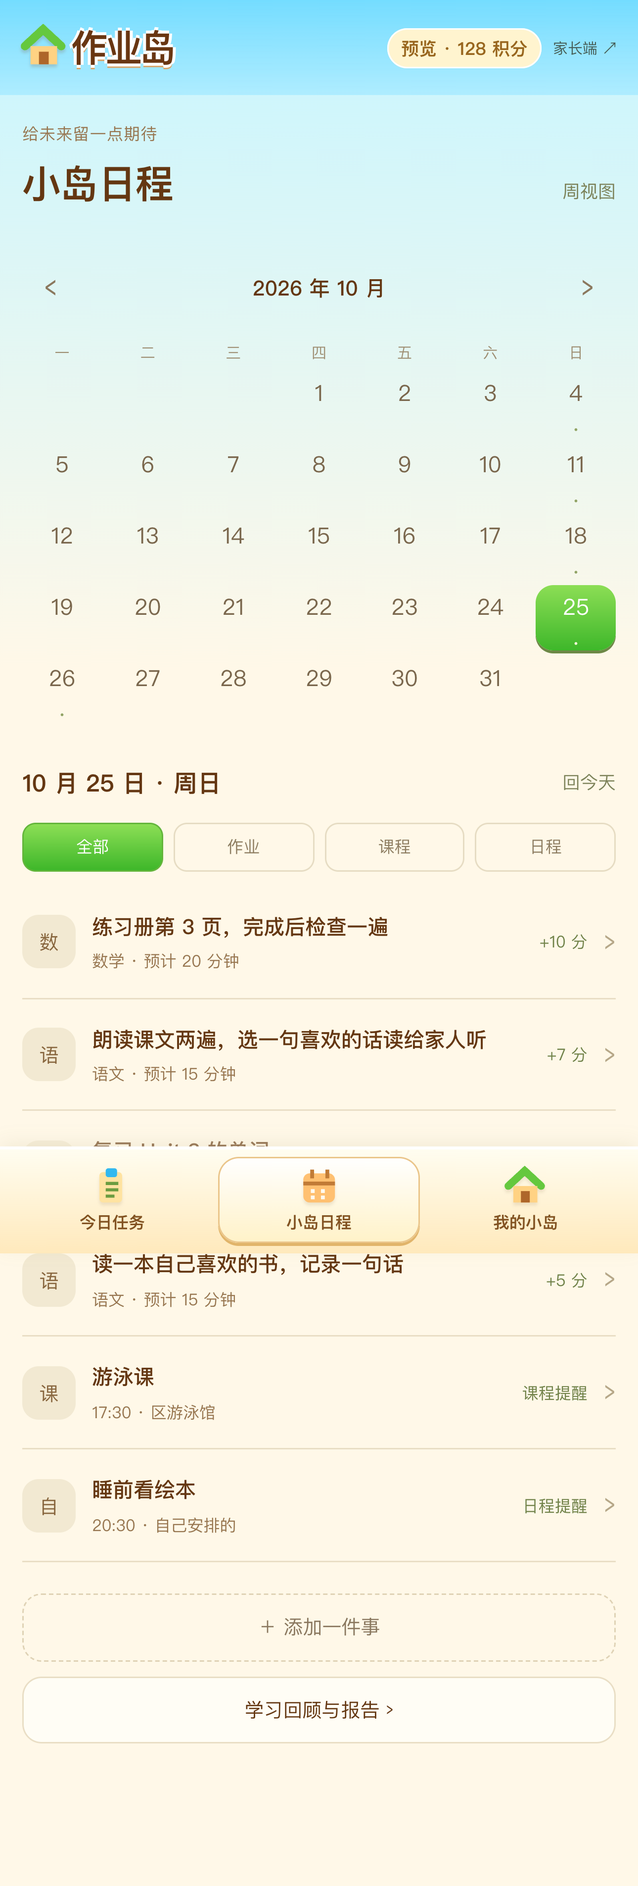
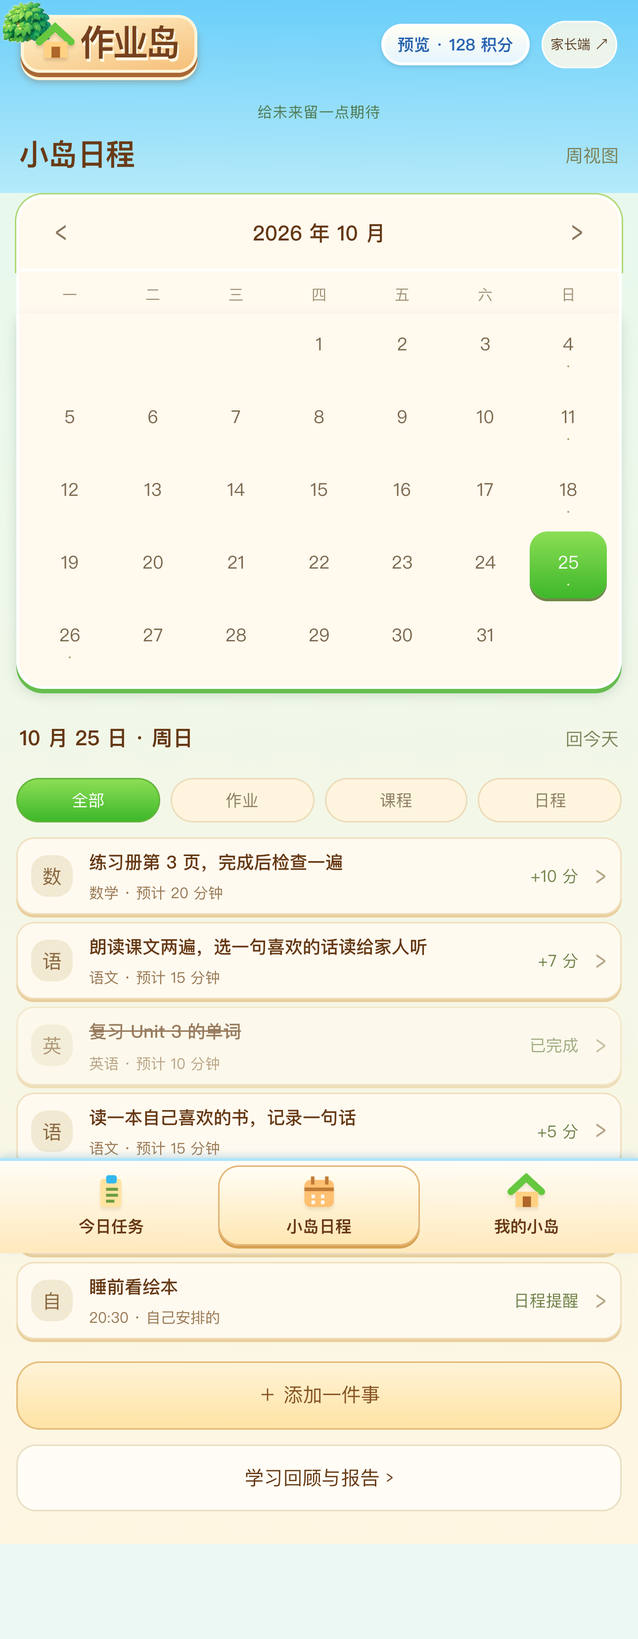
Advance child UI visual fidelity with independent HD scenes

diff --git a/dist/upgrade.js b/dist/upgrade.js
@@ -60,9 +60,11 @@ function parentToday(d,head,open,done){
  return `${head}<div class="up-parent-actions">${button('＋ 发布作业','publish','up-primary')}${button('＋ 添加课程或日程','add-class-event','up-secondary')}</div>${button('📷 截图／文字录入作业','ocr','up-link up-import-link')}${pending.length||toFulfill.length?`<details class="up-inbox" open><summary>需要你看一看 · ${pending.length+toFulfill.length} 项</summary>${requests}</details>`:''}${section('今日安排',button('查看计划 ›','plan','up-link'))}<div class="up-today-list">${open.map(row).join('')||'<p class="up-empty-line">今天暂时没有待办。</p>'}${done.length?`<details class="up-done"><summary>已完成 ${done.length} 件</summary>${done.map(row).join('')}</details>`:''}</div>${recentReview(d)}`;
 }
 function hdIcon(kind){const paths={clipboard:'<rect x="7" y="5" width="18" height="24" rx="3" fill="#ffe3a1"/><rect x="12" y="2" width="9" height="7" rx="2" fill="#32b8ef"/><path d="M12 14h10M12 19h10M12 24h7" stroke="#6b9c40" stroke-width="2.5"/>',calendar:'<rect x="4" y="6" width="25" height="23" rx="5" fill="#ffc071"/><path d="M4 14h25M11 3v7M23 3v7" stroke="#c17b36" stroke-width="3"/><path d="M10 20h3m5 0h3m-11 5h3m5 0h3" stroke="#fffaf0" stroke-width="3"/>',house:'<path d="M3 16L16 4l13 12" fill="none" stroke="#65c83e" stroke-width="6" stroke-linecap="round"/><path d="M7 16v13h19V16" fill="#ffd283"/><path d="M13 29v-9h7v9" fill="#ae662a"/>',bag:'<rect x="6" y="10" width="21" height="21" rx="6" fill="#159fe7"/><path d="M11 11V8c0-7 12-7 12 0v3" stroke="#ffca42" stroke-width="3" fill="none"/><rect x="10" y="20" width="13" height="8" rx="2" fill="#ffc333"/>'};return `<svg viewBox="0 0 34 34" aria-hidden="true">${paths[kind]||paths.clipboard}</svg>`;}
+function hdArt(name,cls=''){return `<img class="${cls}" src="assets/hd/ui/${name}.png" alt="" aria-hidden="true" loading="lazy" decoding="async">`;}
+function hdSubject(subject){const names={语文:'subject-chinese',数学:'subject-math',英语:'subject-english',音乐:'subject-music',科学:'subject-science',美术:'subject-art',体育:'subject-sports'};return names[subject]?hdArt(names[subject],'hd-subject-art'):null;}
 function hdToday(d){
  const all=dayItems(d,todayStr()),tasks=all.filter(x=>x.kind==='homework'),complete=tasks.filter(x=>x.done).length,next=IslandReminders.next(all,todayStr()),b=companion(d);
- const hw=`<section class="hd-paper hd-homework" aria-label="今日作业"><div class="hd-card-head">${hdIcon('clipboard')}<h1>今日作业 <small>${complete}/${tasks.length}</small></h1>${button('查看全部 ›','all-tasks','hd-pill')}</div>${tasks.length?tasks.filter(x=>!x.done).concat(tasks.filter(x=>x.done)).slice(0,3).map(it=>`<div class="hd-task"><button class="hd-task-main" data-up="task" data-id="${attr(it.id)}"><span class="hd-subject" data-subject="${attr(it.hw.subject)}">${e((it.hw.subject||'作业').slice(0,1))}</span><span><b>${e(it.hw.subject||'作业')}</b><small>${e(it.hw.content)}</small></span></button>${it.hw.pendingApproval?'<span class="hd-wait">待家长确认</span>':button(it.done?'✓':'',it.done?'undo':'complete','hd-check',`data-id="${attr(it.id)}" aria-label="${it.done?'撤销完成':'完成'}${attr(it.hw.content)}" aria-pressed="${it.done}"`)}</div>`).join(''):'<p class="hd-empty">今天暂无作业，给自己留一点自由时间吧。</p>'}${tasks.length&&complete===tasks.length?'<p class="hd-encourage">今天的作业都完成啦，辛苦了！</p>':''}<div class="hd-quick">${button('☀ 记心情 ›','journal-edit','hd-pill')}${button('陪伴伙伴 ›','mate-picker','hd-pill')}<span>${e(b.name)}</span></div></section>`;
+ const hw=`<section class="hd-paper hd-homework" aria-label="今日作业"><div class="hd-card-head">${hdArt('clipboard','hd-card-icon')}<h1>今日作业 <small>${complete}/${tasks.length}</small></h1>${button('查看全部 ›','all-tasks','hd-pill')}</div>${tasks.length?tasks.filter(x=>!x.done).concat(tasks.filter(x=>x.done)).slice(0,3).map(it=>`<div class="hd-task"><button class="hd-task-main" data-up="task" data-id="${attr(it.id)}"><span class="hd-subject" data-subject="${attr(it.hw.subject)}">${hdSubject(it.hw.subject)||e((it.hw.subject||'作业').slice(0,1))}</span><span><b>${e(it.hw.subject||'作业')}</b><small>${e(it.hw.content)}</small></span></button>${it.hw.pendingApproval?'<span class="hd-wait">待家长确认</span>':button(it.done?'✓':'',it.done?'undo':'complete','hd-check',`data-id="${attr(it.id)}" aria-label="${it.done?'撤销完成':'完成'}${attr(it.hw.content)}" aria-pressed="${it.done}"`)}</div>`).join(''):'<p class="hd-empty">今天暂无作业，给自己留一点自由时间吧。</p>'}${tasks.length&&complete===tasks.length?'<p class="hd-encourage">今天的作业都完成啦，辛苦了！</p>':''}<div class="hd-quick">${button('☀ 记心情 ›','journal-edit','hd-pill')}${button('🐾 陪伴伙伴 ›','mate-picker','hd-pill')}<span>${e(b.name)}</span></div></section>`;
  const course=next?(()=>{const v=IslandReminders.details(next);return `<section class="hd-course hd-paper"><button class="hd-course-main" data-up="${next.kind}" data-id="${attr(next.id)}">${hdIcon('bag')}<span><b>${e(v.start||'时间待定')}　${e(v.name)}</b><small>${e(IslandReminders.status(next,todayStr()))} · ${v.bring.length?'需要带：'+e(v.bring.join('、')):'无需携带额外物品'}</small></span><span>›</span></button></section>`;})():`<section class="hd-paper hd-course"><div class="hd-course-main">${hdIcon('bag')}<span><b>今天暂无后续课程</b><small>去小岛日程看看之后的安排吧</small></span>${button('查看 ›','plan','hd-pill')}</div></section>`;
  const v=next&&IslandReminders.details(next),mins=new Date().getHours()*60+new Date().getMinutes(),departure=v&&timeToMin(v.departure),courseFirst=next&&(IslandReminders.status(next,todayStr())==='进行中'||departure!=null&&mins>=departure);
  return `<div class="hd-home"><section class="hd-map" aria-label="小岛地图"><img class="hd-map-art" src="assets/hd/island.webp" alt="蓝天海面上的小岛，花园、小屋、森林书屋与码头" fetchpriority="high"><div class="hd-map-date">${dateLabel(todayStr())}</div><button class="hd-sign hd-garden" data-up="explore" data-project="garden">花园 ›</button><button class="hd-sign hd-library" data-up="explore" data-project="library">森林书屋 ›</button><button class="hd-sign hd-house" data-up="room">我的小屋 ›</button><button class="hd-sign hd-dock" data-up="explore" data-project="dock">码头 ›</button><img class="hd-mascot" src="assets/hd/raccoon.webp" alt="戴探险帽的小狸向你挥手"><p class="hd-speech">${e(d.kidName||'小岛主')}，今天也一起加油！</p></section><div class="hd-home-cards">${courseFirst?course+hw:hw+course}</div></div>`;
@@ -83,12 +85,12 @@ function recurring(d){
  return `<div class="up-eyebrow">固定节奏，轻松安排</div><div class="up-heading"><h1>周期作业</h1><span class="up-balance">${tasks.filter(x=>x.active!==false).length} / ${tasks.length} 启用</span></div><p class="up-muted">在发布作业时选择周期，就会在指定日期自动生成。</p>${button('＋ 发布周期作业','publish','up-primary')}${tasks.length?`<div class="up-recurring-list">${tasks.map(t=>`<article class="up-recurring-card ${t.active===false?'is-paused':''}" data-recur-id="${attr(t.id)}"><div class="up-heading"><h2>${e(t.subject||'作业')}</h2><span class="up-balance">+${Number(t.points)||0} 分</span></div><p>${e(t.content||'')}</p><small>${e(cycleText(t))}${t.active===false?' · 已暂停':''}</small><div class="up-recurring-actions">${button('编辑','recur-edit','up-chip',`data-id="${attr(t.id)}"`)}${button(t.active===false?'恢复':'暂停','recur-toggle','up-chip',`data-id="${attr(t.id)}"`)}${button('删除','recur-delete','up-chip',`data-id="${attr(t.id)}"`)}</div></article>`).join('')}</div>`:'<div class="up-empty"><h2>还没有周期作业</h2><p>发布作业时勾选周期选项，就能按天、周或月自动安排。</p></div>'}`;
 }
 function islandTabs(active){return `<div class="up-tabs" aria-label="小岛空间">${[['island','建设'],['mates','伙伴'],['room','房间']].map(([id,n])=>button(n,id,'up-tab',`aria-pressed="${active===id}"`)).join('')}</div>`;}
-function island(d){const p=projects.find(x=>x.id===ui.project)||nextProject(d)||projects[0],built=d.demoGrowth.buildings.includes(p.id),next=nextProject(d),eligible=next?.id===p.id;return `<div class="up-eyebrow">你的努力，正在变成一座小岛</div><div class="up-heading"><h1>我的小岛</h1><span class="up-balance">✦ ${d.points} 积分</span></div>${islandTabs('island')}<div class="up-island-scene">${scene(d)}${sceneBuddy(d,'island')}<button class="up-hotspot house" data-up="room" aria-label="进入我的小屋">我的小屋 ›</button><button class="up-hotspot garden" data-up="project" data-project="garden">小岛花园 ${d.demoGrowth.buildings.includes('garden')?'✓':''}</button><button class="up-hotspot dock" data-up="project" data-project="dock">海边码头 ${d.demoGrowth.buildings.includes('dock')?'✓':''}</button><button class="up-hotspot library" data-up="project" data-project="library">森林书屋 ${d.demoGrowth.buildings.includes('library')?'✓':''}</button></div><p class="up-scene-caption">先种一片花，再沿着小路，慢慢建设自己的家园。</p><div class="up-project"><div class="up-heading"><h2>${e(p.name)}</h2><small>${built?'已经建好':p.cost+' 建设力'}</small></div><p>${e(p.desc)}</p>${built?'<div class="up-built">✓ 已成为小岛的一部分</div>':`<div class="up-meter-label"><span>现有建设力</span><span>${d.demoGrowth.construction} / ${p.cost}</span></div><div class="up-track"><i style="width:${Math.min(100,d.demoGrowth.construction/p.cost*100)}%"></i></div>${!eligible?button('先把'+(next?.name||'前一处建设')+'建好','next-project','up-secondary'):!DemoCore.homeworkProgress(d).complete?button('先完成今日作业，再建设','continue-homework','up-primary'):d.demoGrowth.construction>=p.cost?button('开始建设 '+p.name,'build','up-primary',`data-project="${p.id}"`):button('去完成作业 · 再积累 '+(p.cost-d.demoGrowth.construction)+' 建设力','today','up-primary')}`}</div><p class="up-note">每份作业首次完成增加 10 建设力。建设不会扣除积分或房间摆件。</p><div class="up-settings-links">${button('成就徽章','achieve','up-secondary')}${button('和家人的奖励约定','shop','up-secondary')}${button('学习回顾','report','up-secondary')}</div>`;}
+function island(d){const p=projects.find(x=>x.id===ui.project)||nextProject(d)||projects[0],built=d.demoGrowth.buildings.includes(p.id),next=nextProject(d),eligible=next?.id===p.id;return `<div class="up-eyebrow">你的努力，正在变成一座小岛</div><div class="up-heading"><h1>我的小岛</h1><span class="up-balance">✦ ${d.points} 积分</span></div>${islandTabs('island')}<div class="up-island-scene">${scene(d)}${sceneBuddy(d,'island')}<button class="up-hotspot house" data-up="room" aria-label="进入我的小屋">我的小屋 ›</button><button class="up-hotspot garden" data-up="project" data-project="garden">小岛花园 ${d.demoGrowth.buildings.includes('garden')?'✓':''}</button><button class="up-hotspot dock" data-up="project" data-project="dock">海边码头 ${d.demoGrowth.buildings.includes('dock')?'✓':''}</button><button class="up-hotspot library" data-up="project" data-project="library">森林书屋 ${d.demoGrowth.buildings.includes('library')?'✓':''}</button></div><p class="up-scene-caption">先种一片花，再沿着小路，慢慢建设自己的家园。</p><figure class="hd-area-preview"><img src="assets/hd/${p.id}.jpg" alt="${e(p.name)}高清场景" loading="lazy" decoding="async"><figcaption>${e(p.name)} · 场景预览</figcaption></figure><div class="up-project"><div class="up-heading"><h2>${e(p.name)}</h2><small>${built?'已经建好':p.cost+' 建设力'}</small></div><p>${e(p.desc)}</p>${built?'<div class="up-built">✓ 已成为小岛的一部分</div>':`<div class="up-meter-label"><span>现有建设力</span><span>${d.demoGrowth.construction} / ${p.cost}</span></div><div class="up-track"><i style="width:${Math.min(100,d.demoGrowth.construction/p.cost*100)}%"></i></div>${!eligible?button('先把'+(next?.name||'前一处建设')+'建好','next-project','up-secondary'):!DemoCore.homeworkProgress(d).complete?button('先完成今日作业，再建设','continue-homework','up-primary'):d.demoGrowth.construction>=p.cost?button('开始建设 '+p.name,'build','up-primary',`data-project="${p.id}"`):button('去完成作业 · 再积累 '+(p.cost-d.demoGrowth.construction)+' 建设力','today','up-primary')}`}</div><p class="up-note">每份作业首次完成增加 10 建设力。建设不会扣除积分或房间摆件。</p><div class="up-settings-links">${button('成就徽章','achieve','up-secondary')}${button('和家人的奖励约定','shop','up-secondary')}${button('学习回顾','report','up-secondary')}</div>`;}
 function mateCards(d,picker=false){const b=companion(d),owned=d.rewardsUnlocked||[];return `<div class="up-mate-grid">${(d.rewardItems||[]).filter(x=>x.type==='mate'&&(x.active!==false||owned.includes(x.emoji))).map(m=>{const c=cast[m.emoji],has=owned.includes(m.emoji),active=b.emoji===m.emoji;return `<div class="up-mate-card">${c?`<img src="${c[3]}" alt="${e(m.name)}" loading="lazy">`:`<span class="up-mate-fallback" role="img" aria-label="${e(m.name)}">${e(m.name.slice(0,1))}</span>`}<h2>${e(m.name)}</h2><small>${has?'已经是岛上的伙伴':m.points+' 积分解锁'}</small>${button(active?'正在陪伴':has?'请来陪伴':'解锁伙伴',has?'choose-mate':'redeem','up-secondary',`data-id="${attr(m.id)}" ${picker?'data-picker="true"':''} ${active?'disabled':''}`)}</div>`;}).join('')}</div>`;}
 function mates(d){const b=companion(d);return `<div class="up-eyebrow">写作业的时候，也有人陪伴</div><div class="up-heading"><h1>小岛伙伴</h1><span class="up-balance">${d.points} 积分</span></div>${islandTabs('mates')}<div class="up-companion-intro">${buddy(d)}<div><h2>${e(b.name)}正在陪你</h2><p>${e(b.line)}</p>${button('和我去写作业','continue-homework','up-link')}</div></div>${mateCards(d)}<p class="up-note">10 位小岛伙伴都有自己的形象。用作业积分解锁，在这里或作业页选择今天的陪写伙伴。</p>`;}
 function materialArt(id){const art={wood:'nature-wood-piece',branch:'nature-tree-branch',stone:'magic-lucky-stone',leaf:'plant-four-leaf-clover',flower:'flower-cosmos',shell:'shell-scallop'};const m=MATERIALS.find(x=>x.id===id);return art[id]?`<img class="up-object-image" src="assets/hd/${art[id]}.png" alt="${e(m?.name||id)}" loading="lazy">`:`<span class="up-object-emoji">${e(m?.emoji||'★')}</span>`;}
 
-function room(d){const g=d.demoGrowth,unlocked=DemoCore.homeworkProgress(d).complete;if(!unlocked)ui.roomEdit=false;const zone=ui.roomZone||'shelf',action=ui.roomAction||'place',visible=roomSlots.filter(s=>s.zone===zone),allUsed=Object.keys(g.room).length;return `<div class="up-eyebrow">用房间摆件，布置自己的家</div><div class="up-heading"><h1>我的房间</h1>${button(unlocked?(ui.roomEdit?'完成布置':'布置房间'):'完成作业后再布置',unlocked?'room-edit':'continue-homework','up-chip')}</div>${islandTabs('room')}<div class="up-room-scene"><img class="up-room-bg" src="assets/room.png" alt="有三层展示架、书桌与窗边的温暖小屋" decoding="async" fetchpriority="high">${sceneBuddy(d,'room')}${roomSlots.map(s=>{const id=g.room[s.id],editing=ui.roomEdit&&s.zone===zone;return `<button class="up-room-slot ${id?'occupied':''} ${editing?'editing':''} ${ui.roomFrom===s.id?'moving':''}" style="--slot-x:${s.x}%;--slot-y:${s.y}%" data-up="room-slot" data-slot="${s.id}" aria-label="${s.name}，${id?(MATERIALS.find(m=>m.id===id)?.name||id):'空位'}" ${editing?'':'disabled'}>${id?materialArt(id):editing?'<span>＋</span>':''}</button>`;}).join('')}</div>${ui.roomEdit?`<div class="up-room-zones" aria-label="布置区域">${[['shelf','展示架',12],['desk','书桌',2],['window','窗边',1]].map(([id,name,total])=>button(name+' '+roomSlots.filter(s=>s.zone===id&&g.room[s.id]).length+'/'+total,'room-zone','up-filter',`data-zone="${id}" aria-pressed="${zone===id}"`)).join('')}</div><div class="up-room-tools">${[['place','摆放收藏'],['move','移动摆件'],['remove','收回摆件']].map(([id,name])=>button(name,'room-action','up-filter',`data-action="${id}" aria-pressed="${action===id}"`)).join('')}</div><p class="up-note">${action==='move'?(ui.roomFrom?'再点一个位置，移过去；已有物品时会交换位置。':'先点一件已摆好的收藏，再选新位置。'):action==='remove'?'点一下已摆放的物品，就能收回收藏。':'先选下方收藏，再点位置；替换后，原物品会自动收回。'}</p><div class="up-room-grid">${visible.map(s=>{const id=g.room[s.id];return button(`${id?materialArt(id):'<span class="up-position-plus">＋</span>'}<small>${s.zone==='shelf'?s.name.replace('展示架第 ','').replace(' 层 · ','层 · '):s.name}</small>`,'room-slot','up-room-place',`data-slot="${s.id}" aria-label="布置${s.name}，${id?(MATERIALS.find(m=>m.id===id)?.name||id):'空位'}" aria-pressed="${ui.roomFrom===s.id}"`);}).join('')}</div>${section('我的收藏')}<div class="up-inventory">${Object.entries(d.materials||{}).filter(([,n])=>n>0).map(([id,n])=>{const used=DemoCore.roomUsage(d,id);return `<button data-up="item" data-item="${attr(id)}" class="up-inventory-item" aria-pressed="${ui.selectedItem===id&&action==='place'}">${materialArt(id)}<span>${e(MATERIALS.find(m=>m.id===id)?.name||id)}</span><small>拥有 ${n} · 已摆 ${used}</small><small>可摆 ${Math.max(0,n-used)} 件</small></button>`;}).join('')||'<p class="up-muted">完成作业后，房间摆件会出现在这里。</p>'}</div>`:`<p class="up-scene-caption">${e(companion(d).name)}陪你，让这里一点一点变成自己的样子。</p><div class="up-project"><h2>小小收藏，也能摆满一面墙。</h2><p>展示架 3 层、12 个位置，另有 2 处书桌和 1 处窗边。已摆 ${allUsed} / 15 件；摆放不消耗收藏，已有摆件都保留。</p>${button(unlocked?'开始布置我的房间':'先完成今日作业，再布置',unlocked?'room-edit':'continue-homework','up-primary')}</div>`}`;}
+function room(d){const g=d.demoGrowth,unlocked=DemoCore.homeworkProgress(d).complete;if(!unlocked)ui.roomEdit=false;const zone=ui.roomZone||'shelf',action=ui.roomAction||'place',visible=roomSlots.filter(s=>s.zone===zone),allUsed=Object.keys(g.room).length;return `<div class="up-eyebrow">用房间摆件，布置自己的家</div><div class="up-heading"><h1>我的房间</h1>${button(unlocked?(ui.roomEdit?'完成布置':'布置房间'):'完成作业后再布置',unlocked?'room-edit':'continue-homework','up-chip')}</div>${islandTabs('room')}<div class="up-room-scene"><img class="up-room-bg" src="assets/hd/room.jpg" alt="有三层展示架、书桌与窗边的温暖小屋" decoding="async" fetchpriority="high">${sceneBuddy(d,'room')}${roomSlots.map(s=>{const id=g.room[s.id],editing=ui.roomEdit&&s.zone===zone;return `<button class="up-room-slot ${id?'occupied':''} ${editing?'editing':''} ${ui.roomFrom===s.id?'moving':''}" style="--slot-x:${s.x}%;--slot-y:${s.y}%" data-up="room-slot" data-slot="${s.id}" aria-label="${s.name}，${id?(MATERIALS.find(m=>m.id===id)?.name||id):'空位'}" ${editing?'':'disabled'}>${id?materialArt(id):editing?'<span>＋</span>':''}</button>`;}).join('')}</div>${ui.roomEdit?`<div class="up-room-zones" aria-label="布置区域">${[['shelf','展示架',12],['desk','书桌',2],['window','窗边',1]].map(([id,name,total])=>button(name+' '+roomSlots.filter(s=>s.zone===id&&g.room[s.id]).length+'/'+total,'room-zone','up-filter',`data-zone="${id}" aria-pressed="${zone===id}"`)).join('')}</div><div class="up-room-tools">${[['place','摆放收藏'],['move','移动摆件'],['remove','收回摆件']].map(([id,name])=>button(name,'room-action','up-filter',`data-action="${id}" aria-pressed="${action===id}"`)).join('')}</div><p class="up-note">${action==='move'?(ui.roomFrom?'再点一个位置，移过去；已有物品时会交换位置。':'先点一件已摆好的收藏，再选新位置。'):action==='remove'?'点一下已摆放的物品，就能收回收藏。':'先选下方收藏，再点位置；替换后，原物品会自动收回。'}</p><div class="up-room-grid">${visible.map(s=>{const id=g.room[s.id];return button(`${id?materialArt(id):'<span class="up-position-plus">＋</span>'}<small>${s.zone==='shelf'?s.name.replace('展示架第 ','').replace(' 层 · ','层 · '):s.name}</small>`,'room-slot','up-room-place',`data-slot="${s.id}" aria-label="布置${s.name}，${id?(MATERIALS.find(m=>m.id===id)?.name||id):'空位'}" aria-pressed="${ui.roomFrom===s.id}"`);}).join('')}</div>${section('我的收藏')}<div class="up-inventory">${Object.entries(d.materials||{}).filter(([,n])=>n>0).map(([id,n])=>{const used=DemoCore.roomUsage(d,id);return `<button data-up="item" data-item="${attr(id)}" class="up-inventory-item" aria-pressed="${ui.selectedItem===id&&action==='place'}">${materialArt(id)}<span>${e(MATERIALS.find(m=>m.id===id)?.name||id)}</span><small>拥有 ${n} · 已摆 ${used}</small><small>可摆 ${Math.max(0,n-used)} 件</small></button>`;}).join('')||'<p class="up-muted">完成作业后，房间摆件会出现在这里。</p>'}</div>`:`<p class="up-scene-caption">${e(companion(d).name)}陪你，让这里一点一点变成自己的样子。</p><div class="up-project"><h2>小小收藏，也能摆满一面墙。</h2><p>展示架 3 层、12 个位置，另有 2 处书桌和 1 处窗边。已摆 ${allUsed} / 15 件；摆放不消耗收藏，已有摆件都保留。</p>${button(unlocked?'开始布置我的房间':'先完成今日作业，再布置',unlocked?'room-edit':'continue-homework','up-primary')}</div>`}`;}
 function openKidNameEditor(d){modal(`<div class="up-eyebrow">家庭资料</div><h1>编辑孩子姓名</h1><p class="up-muted">这个名字会显示在家庭页和进度提示中。</p><label class="up-field"><span>儿童名字</span><input id="up-kid-name" type="text" maxlength="12" autocomplete="off" value="${attr(d.kidName||'')}" placeholder="输入孩子名字"></label>${button('保存姓名','save-kid-name','up-primary')}`);}
 function family(d){return `<div class="up-eyebrow">陪伴，也有自己的节奏</div><h1>${child?'我的资料':'我们的家庭'}</h1>${!child?`<section class="up-family-code-card"><div><small>家庭码</small><b>${e(FAMILY_CODE||'尚未设置')}</b><p>家长和孩子使用同一个家庭码。通常只需在家庭设置时修改。</p></div>${button(FAMILY_CODE?'修改家庭码':'设置家庭码','family-code','up-secondary')}</section>`:''}<div class="up-profile">${buddy(d)}<div><div class="up-profile-name"><h2>${e(d.kidName||'小岛主')}</h2>${button('编辑','profile','up-link','aria-label="编辑孩子姓名"')}</div><p>${e(d.kidMood||'一起把每一天，过成喜欢的样子。')}</p></div></div>${[['report','学习回顾','近期学习记录与日周月统计'],['reward','奖励与积分管理','自定义家庭奖励、兑现和加扣分'],['cloud','家庭云端数据',window.IslandSync?.getStatus?.()?.message||'同步状态尚未确认']].map(([a,n,s])=>`<button class="up-row" data-up="${a}"><span class="up-row-main"><b>${n}</b><small>${s}</small></span><span class="up-chevron">›</span></button>`).join('')}`;}
 function cloudPage(){

diff --git a/dist/child-hd.css b/dist/child-hd.css
@@ -33,3 +33,53 @@ body[data-mode=child] .up-primary{background:linear-gradient(#82df45,#34b82a);bo
 @media(prefers-reduced-motion:reduce){body[data-mode=child] *{animation:none!important;scroll-behavior:auto!important}}
 
 .hd-garden{left:4%;top:48%}.hd-library{right:3%;top:43%}.hd-house{left:27%;right:auto;top:25%}.hd-dock{left:auto;right:4%;bottom:18%}
+
+/* Reference-board proportions: a compact illustrated stage above a layered paper panel. */
+body[data-mode=child] .phone{background:#ecf8f4}
+body[data-mode=child] .up-chrome{position:relative!important;top:auto!important;z-index:6!important;margin-bottom:-56px;min-height:56px;padding:8px 14px 4px;background:transparent;backdrop-filter:none;justify-content:space-between}
+body[data-mode=child] .up-brand{display:flex;position:relative;margin-right:auto;padding:3px 11px 4px 8px;min-width:112px;width:auto;font-size:24px;letter-spacing:-2px;line-height:1;color:#74401d;background:linear-gradient(165deg,#fff4d1,#f6bf78);border:2px solid #fff5da;border-radius:13px;box-shadow:0 3px 0 #a96834,0 5px 0 #fff6d9,0 6px 5px #78523370;text-shadow:1px 2px #fff9e7}
+body[data-mode=child] .up-brand:before{content:'';position:absolute;width:33px;height:28px;top:-11px;left:-14px;background:url('assets/hd/ui/shrub.png') center/contain no-repeat;pointer-events:none}
+body[data-mode=child] .up-brand svg{width:28px;height:28px;flex:none}
+body[data-mode=child] .up-header-points{color:#2964af;background:linear-gradient(#fffef3,#e6f5ff);border:2px solid #fff;border-radius:18px;padding:4px 9px;box-shadow:0 1px 3px #39789c4d;font-size:11px}
+body[data-mode=child] .up-mode-switch{color:#59391e;background:#fff9e8d9;border:1px solid #fff;border-radius:16px;min-height:32px;padding:3px 5px;font-size:9px}
+body[data-mode=child] .hd-map{height:218px;background:#53c8f6}
+body[data-mode=child] .hd-map-art{object-position:center 46%}
+body[data-mode=child] .hd-map-date{top:64px;left:auto;right:9px;font-size:10px;background:#eefaffee;color:#386b79;border:1px solid #fff;box-shadow:0 1px 2px #3458663b}
+body[data-mode=child] .hd-mascot{left:37%;width:85px;height:105px;bottom:1px}
+body[data-mode=child] .hd-speech{right:7px;bottom:7px;max-width:38%;padding:4px 8px;border-radius:12px;font-size:9px;line-height:1.35}
+body[data-mode=child] .hd-sign{font-size:9px;min-height:27px;padding:3px 6px;border-radius:9px;box-shadow:inset 0 1px #fff9e6,0 2px 0 #a8763b,0 3px 5px #62421c3d}
+body[data-mode=child] .hd-garden{left:4%;top:63%}body[data-mode=child] .hd-library{right:2%;top:45%}body[data-mode=child] .hd-house{left:22%;top:46%}body[data-mode=child] .hd-dock{right:3%;bottom:17%}
+body[data-mode=child] .hd-home-cards{padding:0 8px 12px;margin-top:-4px;gap:8px;background:linear-gradient(#d4f9d27a,#e9f9de 50%,#fff5e0 100%)}
+body[data-mode=child] .hd-paper{position:relative;isolation:isolate;background:linear-gradient(125deg,#fffef9,#fff5e5);border:3px solid #fff;outline:1px solid #69cdeb;border-radius:18px;box-shadow:inset 0 0 0 1px #f3d794,0 3px 0 #59b847,0 5px 8px #336f5366}
+body[data-mode=child] .hd-homework:before,body[data-mode=child] .hd-homework:after,body[data-mode=child] .hd-course:before,body[data-mode=child] .hd-course:after{content:'';position:absolute;z-index:2;pointer-events:none;background:url('assets/hd/ui/flowers.png') center/contain no-repeat;width:34px;height:43px;bottom:-9px}
+body[data-mode=child] .hd-homework:before,body[data-mode=child] .hd-course:before{left:-8px}body[data-mode=child] .hd-homework:after,body[data-mode=child] .hd-course:after{right:-8px;transform:scaleX(-1)}
+body[data-mode=child] .hd-card-head{padding:5px 13px 4px;min-height:44px}
+body[data-mode=child] .hd-card-icon{width:28px;height:34px;object-fit:contain;transform:rotate(-9deg)}
+body[data-mode=child] .hd-card-head h1{font-size:17px;color:#552914}
+body[data-mode=child] .hd-pill{min-height:30px;padding:4px 9px;background:linear-gradient(#fffbea,#ffe7b6);border-color:#efd1a3;color:#885329;font-size:10px}
+body[data-mode=child] .hd-task{min-height:45px;margin:0 12px}.hd-task-main{min-height:45px}.hd-task-main b{font-size:12px}.hd-task-main small{font-size:10px}.hd-subject{width:29px;height:29px;font-size:15px;border-radius:9px}.hd-subject-art{display:block;width:27px;height:27px;object-fit:contain}.hd-check{width:36px;height:40px;font-size:18px}.hd-check:before{inset:7px 6px}
+body[data-mode=child] .hd-quick{padding:3px 13px 11px;gap:5px}.hd-quick .hd-pill{min-height:31px}.hd-quick>span{max-width:42px;overflow:hidden;text-overflow:ellipsis;white-space:nowrap}
+body[data-mode=child] .hd-course-main{min-height:58px;padding:7px 18px}.hd-course-main svg{height:34px;width:33px}.hd-course-main b{font-size:12px}.hd-course-main small{font-size:10px}
+body[data-mode=child] .phone>.up-nav{border-top:2px solid #aee5fd;background:linear-gradient(#fffdf6,#ffe9bd);padding:3px 7px calc(5px + env(safe-area-inset-bottom));box-shadow:0 -2px 5px #4b9bce44}
+body[data-mode=child] .up-nav-item{min-height:54px;font-size:11px;color:#673713}body[data-mode=child] .up-nav-item svg{width:27px;height:27px}body[data-mode=child] .up-nav-item[aria-current=page]{background:linear-gradient(#fffef5,#ffe6b2);box-shadow:inset 0 0 0 1px #e3b477,0 2px 0 #d8a052}
+body[data-mode=child] .up-main:not([data-route=today]){background:linear-gradient(#6bcffa 0,#b5eaf9 130px,#e8f8ed 130px,#fff6e2 100%);padding:68px 11px 22px;min-height:calc(100svh - 56px)}
+body[data-mode=child] .up-main:not([data-route=today])>.up-eyebrow{font-size:10px;color:#4e7750;text-align:center;margin:0 0 5px}
+body[data-mode=child] .up-main:not([data-route=today])>.up-heading{margin:0 2px 10px}
+body[data-mode=child] .up-main:not([data-route=today])>.up-heading h1,body[data-mode=child] .up-main:not([data-route=today])>h1{font-size:20px;margin:0;color:#693a16}
+body[data-mode=child] .up-main[data-route=plan] .up-date-nav,body[data-mode=child] .up-main[data-route=plan] .up-weekdays,body[data-mode=child] .up-main[data-route=plan] .up-calendar{background:#fff9ee}
+body[data-mode=child] .up-main[data-route=plan] .up-date-nav{margin:0;border:2px solid #fff;border-radius:18px 18px 0 0;padding:5px 9px;box-shadow:0 0 0 1px #b0d877}
+body[data-mode=child] .up-main[data-route=plan] .up-weekdays{padding:2px 8px 0;border-left:2px solid #fff;border-right:2px solid #fff}
+body[data-mode=child] .up-main[data-route=plan] .up-calendar{padding:0 8px 10px;border:2px solid #fff;border-top:0;border-radius:0 0 18px 18px;box-shadow:0 3px 0 #66bd4f,0 4px 8px #40735837}
+body[data-mode=child] .up-day{min-height:45px;font-size:12px;gap:0}.up-day small{height:5px;font-size:9px}.monthly .up-day{min-height:34px}
+body[data-mode=child] .up-main[data-route=plan] .up-section{margin:16px 2px 5px}.up-section h2{font-size:14px}
+body[data-mode=child] .up-filter{border-radius:20px;background:#fff5df;border-color:#eddbb9;min-height:30px}.up-filter[aria-pressed=true]{background:linear-gradient(#8ee364,#37b727);color:#fff}
+body[data-mode=child] .up-row{background:#fffaf0;border:1px solid #f0dfbf;border-radius:12px;margin:5px 0;min-height:47px;padding:6px 9px;box-shadow:0 2px 0 #e9cf9d}.up-row .up-subject{width:28px;height:28px}.up-row-main b{font-size:12px}.up-row-main small{font-size:10px}
+body[data-mode=child] .up-add{background:linear-gradient(#fff3d7,#ffe3a5);border:1px solid #e5ba76;color:#855121;border-radius:16px;min-height:38px;margin-top:10px}
+body[data-mode=child] .up-island-scene,body[data-mode=child] .up-room-scene{border:3px solid #fff;outline:1px solid #80d4f0;border-radius:18px;box-shadow:0 3px 0 #63ba46,0 5px 8px #4e8d5a5c}
+body[data-mode=child] .up-hotspot{border-radius:12px;background:linear-gradient(#fff5ce,#eab56b);border:1px solid #fff6d9;box-shadow:0 2px 0 #a76c3a;color:#623813;font-weight:800;min-height:32px;font-size:10px}
+body[data-mode=child] .up-tabs{background:#fff5e2;border:1px solid #efdbb1;border-radius:22px;margin:8px 0}.up-tab{border-radius:18px;min-height:33px}.up-tab[aria-pressed=true]{background:linear-gradient(#96e665,#39b72d);color:white}
+body[data-mode=child] .up-project{border:2px solid #fff;outline:1px solid #ead2a4;box-shadow:0 3px 0 #d5b581;border-radius:18px;margin-top:11px}
+.hd-area-preview{margin:9px 1px 0;position:relative;overflow:hidden;border:3px solid white;border-radius:17px;box-shadow:0 2px 0 #69b944,0 3px 7px #326e4850;aspect-ratio:1.65}
+.hd-area-preview img{display:block;width:100%;height:100%;object-fit:cover}
+.hd-area-preview figcaption{position:absolute;left:9px;top:8px;color:#6b3b16;font-size:12px;font-weight:800;padding:4px 10px;border:1px solid #fff8db;border-radius:18px;background:linear-gradient(#ffe8b6,#eeba7a);box-shadow:0 2px 0 #a96d35}
+@media(max-width:450px){body[data-mode=child] .hd-map{height:205px}body[data-mode=child] .up-chrome{padding-top:7px}}

diff --git a/docs/child-ui-visual-progress-2026-10-25.md b/docs/child-ui-visual-progress-2026-10-25.md
@@ -1,0 +1,27 @@
+# 作业岛儿童端：视觉还原进度（2026-10-25）
+
+依据：用户选定的 1536×1024 总览图《作业岛：萌趣学习小岛界面》、V2 功能说明、`child-ui-hd-assets-acceptance.md`。总览图里的手机画面本身约 230×330 px，不能直接放大或裁成正式页面；本分支保留真实 DOM/CSS/SVG 交互与独立高清插画。
+
+## 本轮已经接入并验证
+
+| 页面或素材 | 状态 | 证据与限制 |
+| --- | --- | --- |
+| 今日任务首页 | 可运行，视觉进一步贴近 | 缩小海岛舞台、角色和木牌，加入花草边饰、奶油卡片、独立学科图标；仍与目标插画构图、卡片细节有明显差距。 |
+| 小岛日程周／月历 | 可运行，基础配色贴近 | 周月切换、任务筛选和日期点击可用；目标中的星星标记、月度任务面板尚未还原。 |
+| 我的小岛总览 | 可运行，高清地图 | 四个热区可用，建设规则保留；地图布局和目标稿不同。 |
+| 花园／码头／森林书屋 | 独立高清场景预览 | 分别生成 1536×1024、1672×941、1672×941 场景，当前仅能切换预览，尚无对应独立布置页。 |
+| 我的小屋 | 独立高清场景已接入 | 1656×950 场景；原有摆放与收藏逻辑保留，但新背景上的槽位、比例和覆盖关系仍需人工逐项校准。 |
+| 图标 | 23 个独立素材已接入仓库 | 已在首页替换剪贴板与已识别的学科图标；其余背包物件、分类图标需在相应页面逐个接入、校对。 |
+
+本轮验证：39 项领域与隔离检查通过；375／390／430 CSS px × DPR2／3 共 6 组浏览器检查通过，包含课程不打卡、周月切换、心情保存、作业积分完成／撤销、四个场景图的清晰度。4 张 430px DPR3 的预览截图存于 `checks/hd/`，并另存到 Work 输出区。
+
+## 距离“100% 还原”尚未完成
+
+1. **今日任务的 5 个子画面**：心情选择、伙伴选择、书包物品、物品挑选、全部任务仍沿用现有组件；要按参考稿重做木牌、格子、插画和状态，并逐一核对文案与数据。
+2. **日程的 4 个子画面**：本月任务、日程详情、添加／编辑日程、月度小岛月报尚未按目标稿重做；现有功能必须继续保持课程和携带物品“仅提醒、不打卡”。
+3. **三处岛屿布置**：花园、森林书屋、码头目前只有独立背景预览。还需要每处的分类物件栏、独立透明装饰素材、放置／移动／收回／保存，以及可持久化后的重进回显。
+4. **小屋布置**：对新场景重标 15 个位置，逐一验证物件的透明边缘、遮挡、触摸区与保存回显。
+5. **收藏图鉴、成就奖励、限时活动**：目标总览底部三组画面尚未实现对应的高保真独立页面与状态；现有入口主要复用旧版界面。
+6. **最终像素验收**：逐屏按 375／390／430、DPR2／3 与 200% 放大比对；修正剩余的布局、字重、图层、阴影、压缩与性能。当前测试证明功能和素材密度，不能证明视觉已达 100%。
+
+建议按上述顺序推进。未完成前保留开发分支和草稿 PR，不合并 `main` 或发布线上站点。
